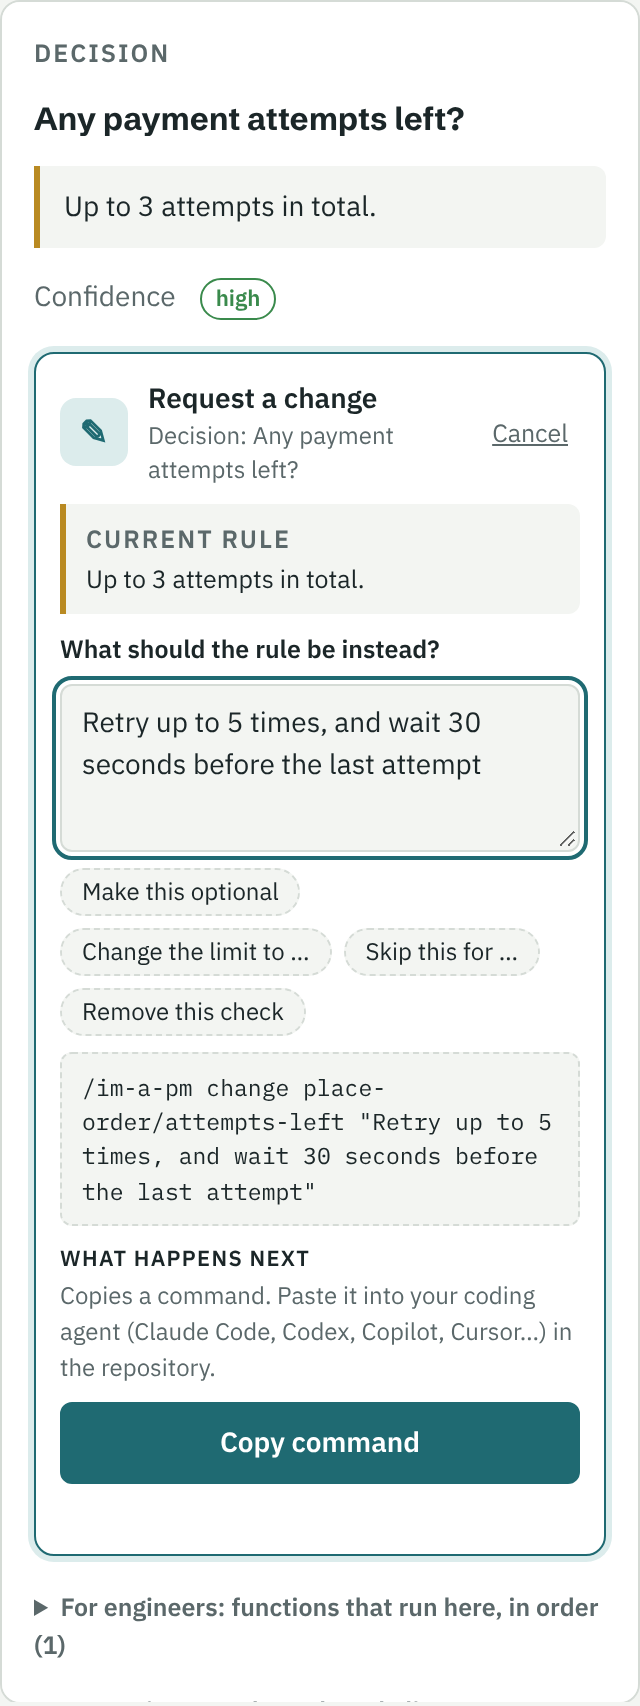
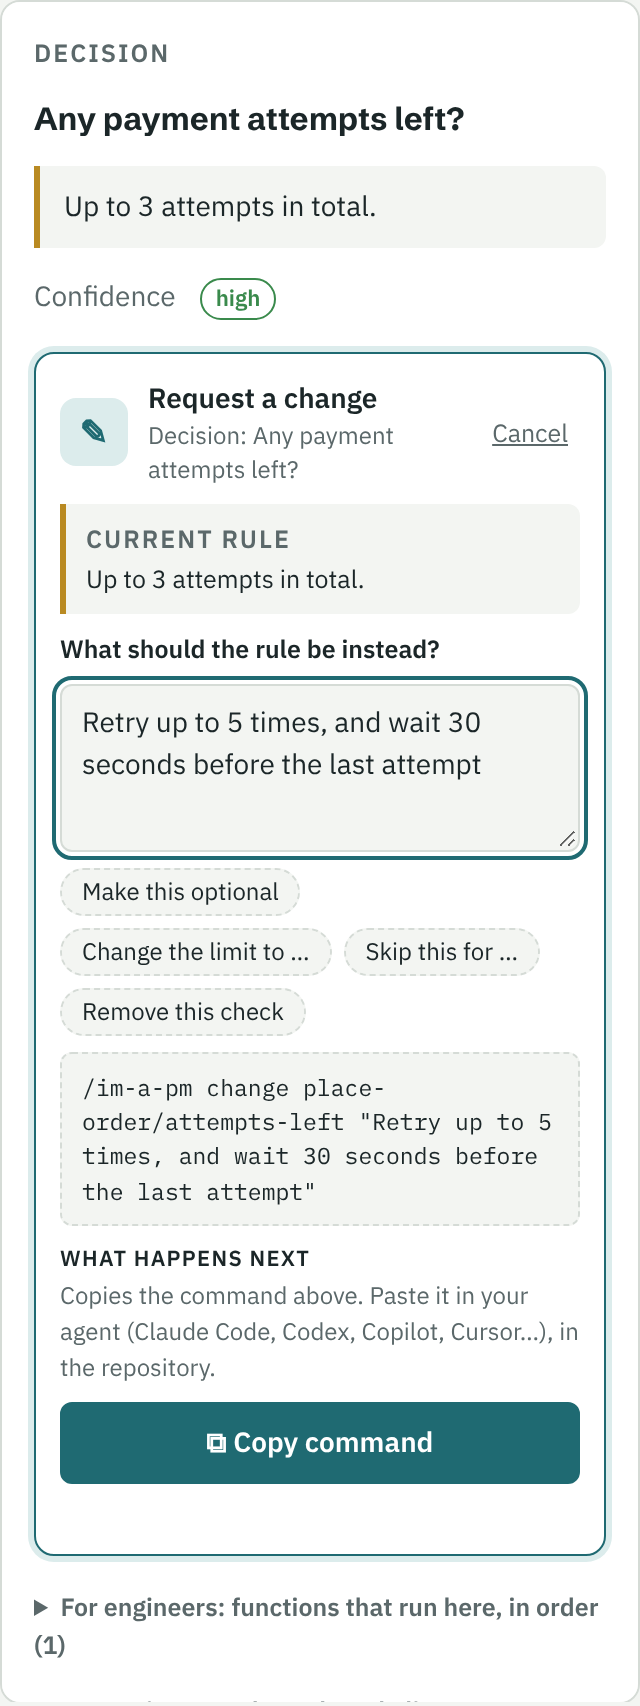
Viewer: Ask and Request change copy a command to paste in your agent
The served viewer no longer saves requests to .im-a-pm/requests/.
Ask, Request a change and Flag as wrong now always show the command
and a "Copy command" button; it copies it to the clipboard, turns into
"Copied", and tells the person to paste it in their agent. If the
browser blocks the clipboard, the command is selected for Ctrl/⌘+C.
In a page published as a Claude artifact, Ask still answers directly.

Removes the now-unused POST /api/requests endpoint and the
/im-a-pm inbox command from the skill, its alias and the README.

Claude-Session: https://claude.ai/code/session_01PJiSFCH6Fftah1hFFyPCRG

Changed region(s): [[0.2188, 0.7456, 0.8438, 0.7767], [0.3125, 0.8388, 0.6875, 0.8699], [0.875, 0.7767, 0.9062, 0.8077]]

diff --git a/examples/shop/index.html b/examples/shop/index.html
@@ -849,11 +849,11 @@ const PAYLOAD = {"head":{"version":1,"app":{"name":"Shop","summary":"Customers c
   // The three things a PM does with a step. "Request a change" is the main action.
   const ACTIONS = {
     change: { icon: '✎', title: 'Request a change', blurb: 'Describe the new rule. Your agent changes the code on a branch, with tests, for engineers to review.', label: 'What should the rule be instead?',
-      ideas: ['Make this optional', 'Change the limit to …', 'Skip this for …', 'Remove this check'], send: 'Send change request' },
+      ideas: ['Make this optional', 'Change the limit to …', 'Skip this for …', 'Remove this check'] },
     ask: { icon: '?', title: 'Ask a question', blurb: 'Get an answer in plain words, checked against the code.', label: 'Your question',
-      ideas: ['Why does this rule exist?', 'What happens if …?', 'Which customers does this affect?'], send: 'Ask' },
+      ideas: ['Why does this rule exist?', 'What happens if …?', 'Which customers does this affect?'] },
     flag: { icon: '⚑', title: 'Flag as wrong', blurb: 'This step does not match how the product really behaves. Your agent re-checks it against the code.', label: 'What do you see instead?',
-      ideas: ['This does not happen in production', 'The real value is …', 'There is a step missing here'], send: 'Send report' },
+      ideas: ['This does not happen in production', 'The real value is …', 'There is a step missing here'] },
   };
   function actionsHtml(subject) {
     if (state.composer) return composerHtml(subject);
@@ -864,17 +864,16 @@ const PAYLOAD = {"head":{"version":1,"app":{"name":"Shop","summary":"Customers c
     const a = ACTIONS[state.composer];
     const viaAI = state.composer === 'ask' && aiAsk;
     const next = viaAI ? 'Claude answers here, using this map.'
-      : served ? 'Saved to <span class="mono">.im-a-pm/requests/</span>. Your agent picks it up with <span class="mono">/im-a-pm inbox</span>.'
-      : 'Copies a command. Paste it into your coding agent (Claude Code, Codex, Copilot, Cursor…) in the repository.';
+      : 'Copies the command above. Paste it in your agent (Claude Code, Codex, Copilot, Cursor…), in the repository.';
     return `<section class="act open ${state.composer}" aria-label="${esc(a.title)}">
       <div class="act-head"><span class="ic" aria-hidden="true">${a.icon}</span><div><b>${a.title}</b><small>${esc(subject.name)}</small></div><button type="button" class="linkish" id="composer-cancel">Cancel</button></div>
       ${state.composer === 'change' && subject.rule ? `<div class="current"><span class="eyebrow">Current rule</span>${esc(subject.rule)}</div>` : ''}
       <label for="composer-text">${a.label}</label>
       <textarea id="composer-text" placeholder="${esc(a.ideas[0])}"></textarea>
       <div class="ideas">${a.ideas.map((t) => `<button type="button" class="idea" data-idea="${esc(t)}">${esc(t)}</button>`).join('')}</div>
-      ${!viaAI && !served ? '<div class="cmd" id="composer-cmd"></div>' : ''}
+      ${!viaAI ? '<div class="cmd" id="composer-cmd"></div>' : ''}
       <div class="next"><b>What happens next</b>${next}</div>
-      <button type="button" class="btn primary big" id="composer-send">${viaAI ? 'Ask Claude' : served ? a.send : 'Copy command'}</button>
+      <button type="button" class="btn primary big" id="composer-send">${viaAI ? 'Ask Claude' : '⧉ Copy command'}</button>
       <div class="toast" id="toast" role="status"></div>
     </section>`;
   }
@@ -937,17 +936,17 @@ const PAYLOAD = {"head":{"version":1,"app":{"name":"Shop","summary":"Customers c
     const toast = $('toast');
     if (!text) { toast.textContent = 'Write something first.'; return; }
     if (kind === 'ask' && aiAsk) { aiAsk(`About ${subject.name} (in the flow "${flowOf(state.flow).title}"): ${text}`); return; }
-    if (served) {
-      try {
-        const r = await fetch('/api/requests', { method: 'POST', headers: { 'content-type': 'application/json' }, body: JSON.stringify({ kind, flow: state.flow, node: nodeId || null, text }) });
-        const j = await r.json(); if (!j.ok) throw new Error(j.error);
-        toast.textContent = 'Sent. Run /im-a-pm inbox in your coding agent to process it.';
-      } catch (e) { toast.textContent = `Could not send: ${e.message}`; }
-      return;
-    }
+    // Every request becomes a command the person pastes into their agent.
     const cmd = command(kind, state.flow, nodeId, text);
-    try { await navigator.clipboard.writeText(cmd); toast.textContent = 'Copied. Paste it into your coding agent.'; }
-    catch { const el = $('composer-cmd'); const sel = getSelection(); const rg = document.createRange(); rg.selectNodeContents(el); sel.removeAllRanges(); sel.addRange(rg); toast.textContent = 'Select the command above and copy it.'; }
+    const btn = $('composer-send');
+    try {
+      await navigator.clipboard.writeText(cmd);
+      toast.textContent = 'Copied. Paste it in your agent.';
+      if (btn) { btn.textContent = '✓ Copied'; setTimeout(() => { if (btn.isConnected) btn.textContent = '⧉ Copy command'; }, 2000); }
+    } catch {
+      const el = $('composer-cmd'); const sel = getSelection(); const rg = document.createRange(); rg.selectNodeContents(el); sel.removeAllRanges(); sel.addRange(rg);
+      toast.textContent = 'Your browser blocked copying. The command is selected: press Ctrl+C (⌘C on a Mac), then paste it in your agent.';
+    }
   }
 
   // ------------------------------------------------------------ routing

diff --git a/examples/video-api/index.html b/examples/video-api/index.html
@@ -849,11 +849,11 @@ const PAYLOAD = {"head":{"version":1,"app":{"name":"Video API","summary":"Editor
   // The three things a PM does with a step. "Request a change" is the main action.
   const ACTIONS = {
     change: { icon: '✎', title: 'Request a change', blurb: 'Describe the new rule. Your agent changes the code on a branch, with tests, for engineers to review.', label: 'What should the rule be instead?',
-      ideas: ['Make this optional', 'Change the limit to …', 'Skip this for …', 'Remove this check'], send: 'Send change request' },
+      ideas: ['Make this optional', 'Change the limit to …', 'Skip this for …', 'Remove this check'] },
     ask: { icon: '?', title: 'Ask a question', blurb: 'Get an answer in plain words, checked against the code.', label: 'Your question',
-      ideas: ['Why does this rule exist?', 'What happens if …?', 'Which customers does this affect?'], send: 'Ask' },
+      ideas: ['Why does this rule exist?', 'What happens if …?', 'Which customers does this affect?'] },
     flag: { icon: '⚑', title: 'Flag as wrong', blurb: 'This step does not match how the product really behaves. Your agent re-checks it against the code.', label: 'What do you see instead?',
-      ideas: ['This does not happen in production', 'The real value is …', 'There is a step missing here'], send: 'Send report' },
+      ideas: ['This does not happen in production', 'The real value is …', 'There is a step missing here'] },
   };
   function actionsHtml(subject) {
     if (state.composer) return composerHtml(subject);
@@ -864,17 +864,16 @@ const PAYLOAD = {"head":{"version":1,"app":{"name":"Video API","summary":"Editor
     const a = ACTIONS[state.composer];
     const viaAI = state.composer === 'ask' && aiAsk;
     const next = viaAI ? 'Claude answers here, using this map.'
-      : served ? 'Saved to <span class="mono">.im-a-pm/requests/</span>. Your agent picks it up with <span class="mono">/im-a-pm inbox</span>.'
-      : 'Copies a command. Paste it into your coding agent (Claude Code, Codex, Copilot, Cursor…) in the repository.';
+      : 'Copies the command above. Paste it in your agent (Claude Code, Codex, Copilot, Cursor…), in the repository.';
     return `<section class="act open ${state.composer}" aria-label="${esc(a.title)}">
       <div class="act-head"><span class="ic" aria-hidden="true">${a.icon}</span><div><b>${a.title}</b><small>${esc(subject.name)}</small></div><button type="button" class="linkish" id="composer-cancel">Cancel</button></div>
       ${state.composer === 'change' && subject.rule ? `<div class="current"><span class="eyebrow">Current rule</span>${esc(subject.rule)}</div>` : ''}
       <label for="composer-text">${a.label}</label>
       <textarea id="composer-text" placeholder="${esc(a.ideas[0])}"></textarea>
       <div class="ideas">${a.ideas.map((t) => `<button type="button" class="idea" data-idea="${esc(t)}">${esc(t)}</button>`).join('')}</div>
-      ${!viaAI && !served ? '<div class="cmd" id="composer-cmd"></div>' : ''}
+      ${!viaAI ? '<div class="cmd" id="composer-cmd"></div>' : ''}
       <div class="next"><b>What happens next</b>${next}</div>
-      <button type="button" class="btn primary big" id="composer-send">${viaAI ? 'Ask Claude' : served ? a.send : 'Copy command'}</button>
+      <button type="button" class="btn primary big" id="composer-send">${viaAI ? 'Ask Claude' : '⧉ Copy command'}</button>
       <div class="toast" id="toast" role="status"></div>
     </section>`;
   }
@@ -937,17 +936,17 @@ const PAYLOAD = {"head":{"version":1,"app":{"name":"Video API","summary":"Editor
     const toast = $('toast');
     if (!text) { toast.textContent = 'Write something first.'; return; }
     if (kind === 'ask' && aiAsk) { aiAsk(`About ${subject.name} (in the flow "${flowOf(state.flow).title}"): ${text}`); return; }
-    if (served) {
-      try {
-        const r = await fetch('/api/requests', { method: 'POST', headers: { 'content-type': 'application/json' }, body: JSON.stringify({ kind, flow: state.flow, node: nodeId || null, text }) });
-        const j = await r.json(); if (!j.ok) throw new Error(j.error);
-        toast.textContent = 'Sent. Run /im-a-pm inbox in your coding agent to process it.';
-      } catch (e) { toast.textContent = `Could not send: ${e.message}`; }
-      return;
-    }
+    // Every request becomes a command the person pastes into their agent.
     const cmd = command(kind, state.flow, nodeId, text);
-    try { await navigator.clipboard.writeText(cmd); toast.textContent = 'Copied. Paste it into your coding agent.'; }
-    catch { const el = $('composer-cmd'); const sel = getSelection(); const rg = document.createRange(); rg.selectNodeContents(el); sel.removeAllRanges(); sel.addRange(rg); toast.textContent = 'Select the command above and copy it.'; }
+    const btn = $('composer-send');
+    try {
+      await navigator.clipboard.writeText(cmd);
+      toast.textContent = 'Copied. Paste it in your agent.';
+      if (btn) { btn.textContent = '✓ Copied'; setTimeout(() => { if (btn.isConnected) btn.textContent = '⧉ Copy command'; }, 2000); }
+    } catch {
+      const el = $('composer-cmd'); const sel = getSelection(); const rg = document.createRange(); rg.selectNodeContents(el); sel.removeAllRanges(); sel.addRange(rg);
+      toast.textContent = 'Your browser blocked copying. The command is selected: press Ctrl+C (⌘C on a Mac), then paste it in your agent.';
+    }
   }
 
   // ------------------------------------------------------------ routing

diff --git a/skills/im-a-pm/assets/viewer.html b/skills/im-a-pm/assets/viewer.html
@@ -842,11 +842,11 @@ const PAYLOAD = /*__IM_A_PM_DATA__*/null;
   // The three things a PM does with a step. "Request a change" is the main action.
   const ACTIONS = {
     change: { icon: '✎', title: 'Request a change', blurb: 'Describe the new rule. Your agent changes the code on a branch, with tests, for engineers to review.', label: 'What should the rule be instead?',
-      ideas: ['Make this optional', 'Change the limit to …', 'Skip this for …', 'Remove this check'], send: 'Send change request' },
+      ideas: ['Make this optional', 'Change the limit to …', 'Skip this for …', 'Remove this check'] },
     ask: { icon: '?', title: 'Ask a question', blurb: 'Get an answer in plain words, checked against the code.', label: 'Your question',
-      ideas: ['Why does this rule exist?', 'What happens if …?', 'Which customers does this affect?'], send: 'Ask' },
+      ideas: ['Why does this rule exist?', 'What happens if …?', 'Which customers does this affect?'] },
     flag: { icon: '⚑', title: 'Flag as wrong', blurb: 'This step does not match how the product really behaves. Your agent re-checks it against the code.', label: 'What do you see instead?',
-      ideas: ['This does not happen in production', 'The real value is …', 'There is a step missing here'], send: 'Send report' },
+      ideas: ['This does not happen in production', 'The real value is …', 'There is a step missing here'] },
   };
   function actionsHtml(subject) {
     if (state.composer) return composerHtml(subject);
@@ -857,17 +857,16 @@ const PAYLOAD = /*__IM_A_PM_DATA__*/null;
     const a = ACTIONS[state.composer];
     const viaAI = state.composer === 'ask' && aiAsk;
     const next = viaAI ? 'Claude answers here, using this map.'
-      : served ? 'Saved to <span class="mono">.im-a-pm/requests/</span>. Your agent picks it up with <span class="mono">/im-a-pm inbox</span>.'
-      : 'Copies a command. Paste it into your coding agent (Claude Code, Codex, Copilot, Cursor…) in the repository.';
+      : 'Copies the command above. Paste it in your agent (Claude Code, Codex, Copilot, Cursor…), in the repository.';
     return `<section class="act open ${state.composer}" aria-label="${esc(a.title)}">
       <div class="act-head"><span class="ic" aria-hidden="true">${a.icon}</span><div><b>${a.title}</b><small>${esc(subject.name)}</small></div><button type="button" class="linkish" id="composer-cancel">Cancel</button></div>
       ${state.composer === 'change' && subject.rule ? `<div class="current"><span class="eyebrow">Current rule</span>${esc(subject.rule)}</div>` : ''}
       <label for="composer-text">${a.label}</label>
       <textarea id="composer-text" placeholder="${esc(a.ideas[0])}"></textarea>
       <div class="ideas">${a.ideas.map((t) => `<button type="button" class="idea" data-idea="${esc(t)}">${esc(t)}</button>`).join('')}</div>
-      ${!viaAI && !served ? '<div class="cmd" id="composer-cmd"></div>' : ''}
+      ${!viaAI ? '<div class="cmd" id="composer-cmd"></div>' : ''}
       <div class="next"><b>What happens next</b>${next}</div>
-      <button type="button" class="btn primary big" id="composer-send">${viaAI ? 'Ask Claude' : served ? a.send : 'Copy command'}</button>
+      <button type="button" class="btn primary big" id="composer-send">${viaAI ? 'Ask Claude' : '⧉ Copy command'}</button>
       <div class="toast" id="toast" role="status"></div>
     </section>`;
   }
@@ -930,17 +929,17 @@ const PAYLOAD = /*__IM_A_PM_DATA__*/null;
     const toast = $('toast');
     if (!text) { toast.textContent = 'Write something first.'; return; }
     if (kind === 'ask' && aiAsk) { aiAsk(`About ${subject.name} (in the flow "${flowOf(state.flow).title}"): ${text}`); return; }
-    if (served) {
-      try {
-        const r = await fetch('/api/requests', { method: 'POST', headers: { 'content-type': 'application/json' }, body: JSON.stringify({ kind, flow: state.flow, node: nodeId || null, text }) });
-        const j = await r.json(); if (!j.ok) throw new Error(j.error);
-        toast.textContent = 'Sent. Run /im-a-pm inbox in your coding agent to process it.';
-      } catch (e) { toast.textContent = `Could not send: ${e.message}`; }
-      return;
-    }
+    // Every request becomes a command the person pastes into their agent.
     const cmd = command(kind, state.flow, nodeId, text);
-    try { await navigator.clipboard.writeText(cmd); toast.textContent = 'Copied. Paste it into your coding agent.'; }
-    catch { const el = $('composer-cmd'); const sel = getSelection(); const rg = document.createRange(); rg.selectNodeContents(el); sel.removeAllRanges(); sel.addRange(rg); toast.textContent = 'Select the command above and copy it.'; }
+    const btn = $('composer-send');
+    try {
+      await navigator.clipboard.writeText(cmd);
+      toast.textContent = 'Copied. Paste it in your agent.';
+      if (btn) { btn.textContent = '✓ Copied'; setTimeout(() => { if (btn.isConnected) btn.textContent = '⧉ Copy command'; }, 2000); }
+    } catch {
+      const el = $('composer-cmd'); const sel = getSelection(); const rg = document.createRange(); rg.selectNodeContents(el); sel.removeAllRanges(); sel.addRange(rg);
+      toast.textContent = 'Your browser blocked copying. The command is selected: press Ctrl+C (⌘C on a Mac), then paste it in your agent.';
+    }
   }
 
   // ------------------------------------------------------------ routing

diff --git a/skills/im-a-pm/SKILL.md b/skills/im-a-pm/SKILL.md
@@ -1,6 +1,6 @@
 ---
 name: im-a-pm
-description: Map a codebase as business flows for product managers. Every entrypoint (REST, GraphQL, queues, events, jobs, cron, sagas, webhooks) becomes a flowchart of business decisions from trigger to outcome, with the functions that run at each step in order, and the map is kept in sync with the code and opened in the browser. Use when someone asks how a feature or business rule works in product terms, wants a PM-readable map of the app, wants to update the map after code changes, wants to change a business rule from the map, or wants to see which business behavior a branch or PR changes. Commands are /im-a-pm build, sync, view, ask "<question>", change <flow>[/<node>] "<request>", inbox, and diff [<base-ref>]. /imapm is an alias.
+description: Map a codebase as business flows for product managers. Every entrypoint (REST, GraphQL, queues, events, jobs, cron, sagas, webhooks) becomes a flowchart of business decisions from trigger to outcome, with the functions that run at each step in order, and the map is kept in sync with the code and opened in the browser. Use when someone asks how a feature or business rule works in product terms, wants a PM-readable map of the app, wants to update the map after code changes, wants to change a business rule from the map, or wants to see which business behavior a branch or PR changes. Commands are /im-a-pm build, sync, view, ask "<question>", change <flow>[/<node>] "<request>", and diff [<base-ref>]. /imapm is an alias.
 ---
 
 # im-a-pm
@@ -24,7 +24,6 @@ Everything lives in `.im-a-pm/` at the repository root:
 | `.im-a-pm/flows.json` | The map, including `app.commit`, the commit it describes | **Yes** |
 | `.im-a-pm/index.html` | The rendered viewer (also served locally) | No |
 | `.im-a-pm/sync.json` | Report of the last `sync` | No |
-| `.im-a-pm/requests/*.json` | Questions and change requests sent from the viewer | No |
 | `.im-a-pm/base.json` | Map of the base ref, used by `diff` | No |
 | `.im-a-pm/view.json`, `server.json`, `server.log` | State of the local viewer server | No |
 
@@ -172,9 +171,11 @@ Goal: bring the map from `app.commit` up to HEAD by re-checking only what change
 
 ## /im-a-pm view
 
-Run `view`. It renders the current map and opens it. The served viewer sends questions, change
-requests and "flag as wrong" reports to `.im-a-pm/requests/`. Opened as a plain file, it
-copies a ready-to-paste `/im-a-pm` command instead.
+Run `view`. It renders the current map and opens it. In the viewer, "Ask", "Request a change" and
+"Flag as wrong" copy a ready-to-paste `/im-a-pm ask` or `/im-a-pm change` command. The person
+pastes it in their agent, and you handle it like any other command. A "Flag as wrong" arrives as
+`/im-a-pm ask "Check <flow>/<node>. A PM thinks this is wrong: …"`: re-check that step against
+the code, then either fix the map or explain why it is right.
 
 ## /im-a-pm ask "<question>"
 
@@ -201,16 +202,6 @@ push.
    map as a separate commit, so that `app.commit` points at the code it describes.
 6. Do not push unless the person asks. Show the behavioral diff against the original branch
    (`/im-a-pm diff <original-branch>`), which renders and opens the viewer.
-
-## /im-a-pm inbox
-
-Process `.im-a-pm/requests/*.json` (written by the served viewer), oldest first:
-- `kind: "ask"` works like `/im-a-pm ask`.
-- `kind: "change"` works like `/im-a-pm change`.
-- `kind: "flag"` means a PM believes a node is wrong. Re-check that node against the code, and
-  either fix the map or explain why it is right.
-
-Move each handled file to `.im-a-pm/requests/done/`.
 
 ## /im-a-pm diff [<base-ref>]
 

diff --git a/README.md b/README.md
@@ -100,13 +100,14 @@ Every step, and every flow, ends with **What do you want to do?**
 | **Ask a question** | "Why does this exist?" or "What happens if the provider times out?" | The answer comes back in product language, checked against the code, and names the steps it relies on. |
 | **Flag as wrong** | What you see in the real product. | Your agent re-checks that step against the code, then fixes the map or explains why it is right. |
 
-Where the request goes depends on how the map is open:
-- **Served by im-a-pm** (the default after `build`, `sync` or `view`): it is saved in
-  `.im-a-pm/requests/`, and your agent processes it with `/im-a-pm inbox`.
-- **Opened as a plain file**: it becomes a ready-to-paste `/im-a-pm` command.
-- **Published as a [Claude artifact](https://claude.ai)**: *Ask* goes straight to Claude, and the
-  answer cites the steps, which light up on the chart. That same page also has a search box for
-  questions about any business rule.
+**Copy command** puts a ready-to-paste command on your clipboard, such as
+`/im-a-pm change place-order/attempts-left "Retry up to 5 times"`. Paste it in your agent (Claude
+Code, Codex, Copilot, Cursor…), in the repository. The command is also shown in the panel, so you
+can check it first.
+
+When the map is published as a [Claude artifact](https://claude.ai), *Ask* goes straight to
+Claude instead. The answer cites the steps, which light up on the chart, and that page also has a
+search box for questions about any business rule.
 
 ### Paths the code doesn't handle
 
@@ -211,7 +212,6 @@ Every command works as `/im-a-pm …` or `/imapm …`.
 | `view` | Opens the current map. |
 | `ask "<question>"` | Answers in product language, checked against the code, and names the steps involved. |
 | `change <flow>[/<step>] "<request>"` | Restates the rule (current → new) and lists the flows affected. It then implements the change on an `im-a-pm/<slug>` branch with tests, updates the map, and shows the behavioral diff. Nothing is pushed. |
-| `inbox` | Processes the questions, change requests and "flag as wrong" reports sent from the viewer. |
 | `diff [<base-ref>]` | Compares business behavior with another branch (by default, the main branch) and opens the map with the changes highlighted. |
 
 ## How it works

diff --git a/skills/imapm/SKILL.md b/skills/imapm/SKILL.md
@@ -1,6 +1,6 @@
 ---
 name: imapm
-description: Short alias of the im-a-pm skill. Maps a codebase as business flows for product managers (every entrypoint as a flowchart of business decisions, with the functions behind each step), keeps the map in sync with the code, and opens it in the browser. Commands are /imapm build, sync, view, ask "<question>", change <flow>[/<node>] "<request>", inbox, and diff [<base-ref>].
+description: Short alias of the im-a-pm skill. Maps a codebase as business flows for product managers (every entrypoint as a flowchart of business decisions, with the functions behind each step), keeps the map in sync with the code, and opens it in the browser. Commands are /imapm build, sync, view, ask "<question>", change <flow>[/<node>] "<request>", and diff [<base-ref>].
 ---
 
 # imapm: alias of im-a-pm
